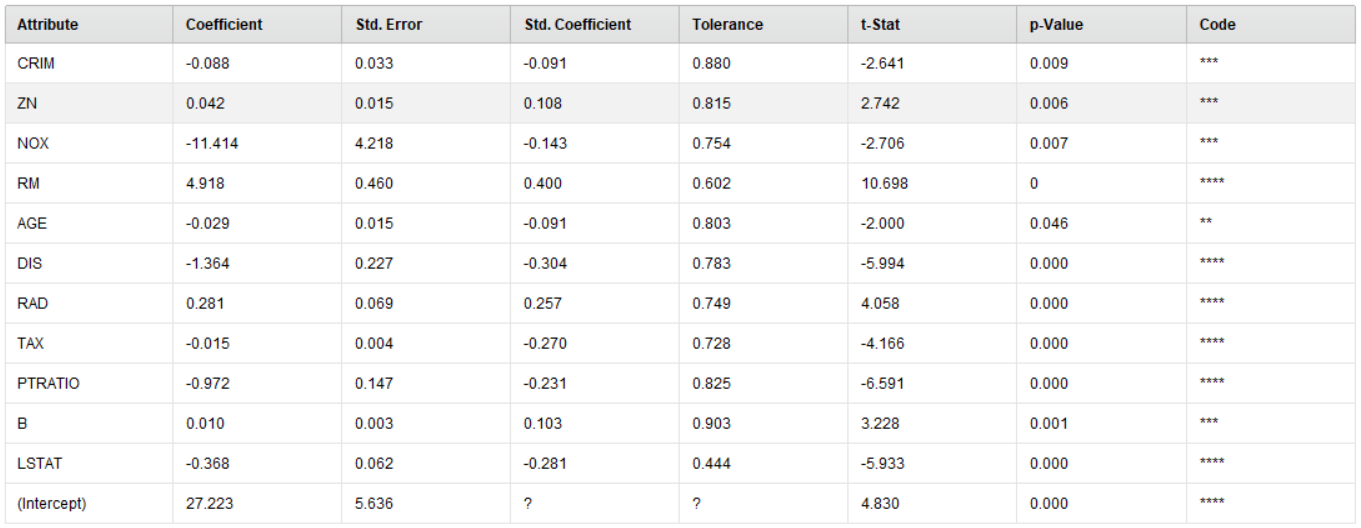
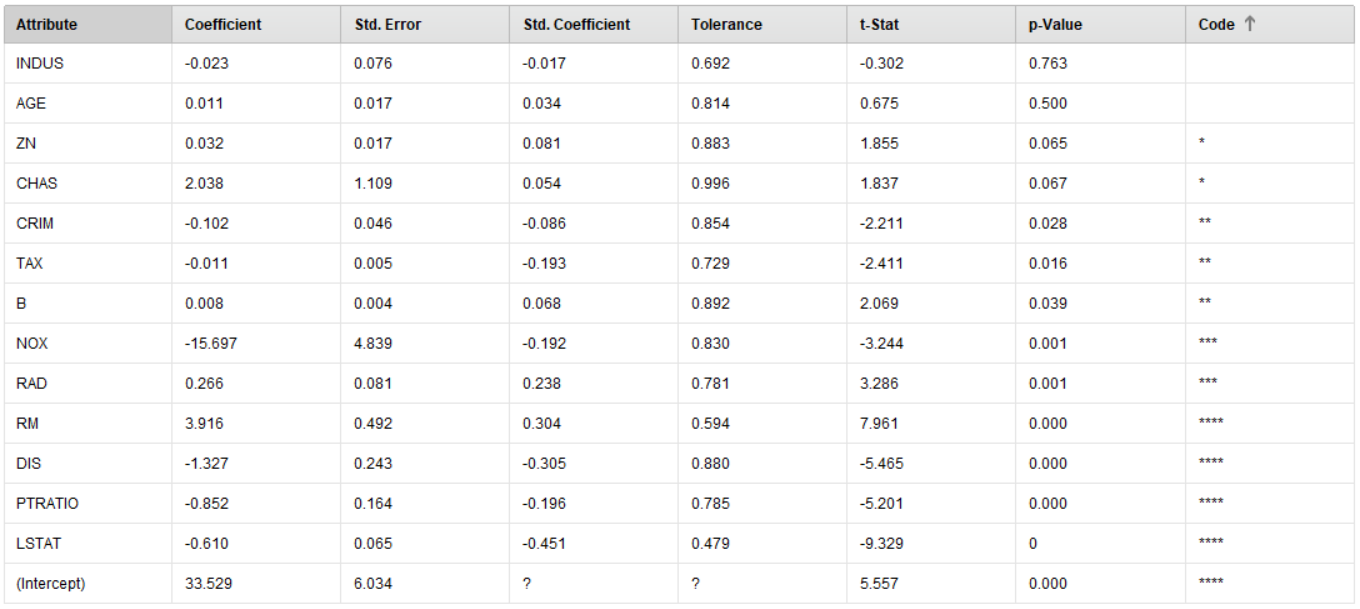
Update Project “predicción-del-precio-de-venta-de-una-casa/index”

diff --git a/content/project/predicción-del-precio-de-venta-de-una-casa/index.md b/content/project/predicción-del-precio-de-venta-de-una-casa/index.md
@@ -1,8 +1,11 @@
 ---
 title: Predicción del precio de venta de una casa
 subtitle: ""
-date: 2021-11-13T14:13:34.818Z
-draft: true
+date: 2021-10-14T00:56:00.000Z
+summary: Se realiza una regresión lineal con feature selection al data set
+  Housing (de Boston) con el fin de predecir el precio de un inmueble de acuerdo
+  a las características del mismo y del entorno.
+draft: false
 featured: false
 tags:
   - algoritmo lineal
@@ -10,7 +13,7 @@ tags:
   - feature selection
 categories: []
 image:
-  filename: ""
+  filename: featured.jpg
   focal_point: ""
   preview_only: false
 ---
@@ -61,8 +64,18 @@ Dentro del proceso *Split Validation*, agregamos los operadores que se encuentra
 
 Aquí en el operador *Performance*, selecciona los parámetros: squared error, correlation y squared correlation.
 
-Si antes de ejecutor el proceso, le agregamos un punto de interrupción al operador Linear Regression (clic derecho encima, Breakpoint After), el programa nos mostrara las variables que el modelo considera importante para estos datos. Sería conveniente trabajar solamente con las que tengan 4 asteriscos.
+Si antes de ejecutor el proceso, le agregamos un punto de interrupción al operador Linear Regression (clic derecho encima, Breakpoint After), el programa nos mostrara las variables que el modelo considera importante para estos datos. Sería conveniente trabajar solamente con las que tengan 4 estrellas ya que a estas RapidMiner las considera altamente significativas.
 
 ![Importancia de las variables](importancia.png "Importancia de las variables")
 
-Texto
+En la siguiente imagen se pueden obtener los coeficientes de los atributos lo que permite obtener la predicción para un elemento x.
+
+![Coeficientes](coeficientes.png "Coeficientes")
+
+Hasta ahora, hemos trabajado solamente con el conjunto de entrenamiento, ya es hora de que le apliquemos el modelo creado a nuestro conjunto de test (los registros que teníamos guardados por el momento del 451 al 506). Para esto agregaremos un operador *Apply Model* para aplicar nuestro modelo al conjunto de test, luego en el operador *Rename* renombraremos la variable MEDV (Prediction) a predictedMEDV para poder operar con ella en el operador *Generate Attributes* creando una variable Diferencias (predictedMEDV - MEDV). El modelo final queda como la imagen Parte2
+
+![Parte 2](parte-2.png "parte 2")
+
+A modo de exposición, se muestra los primeros 15 resultados obtenidos del conjunto de test.
+
+![Resultado](resultado.png "Resultado")
